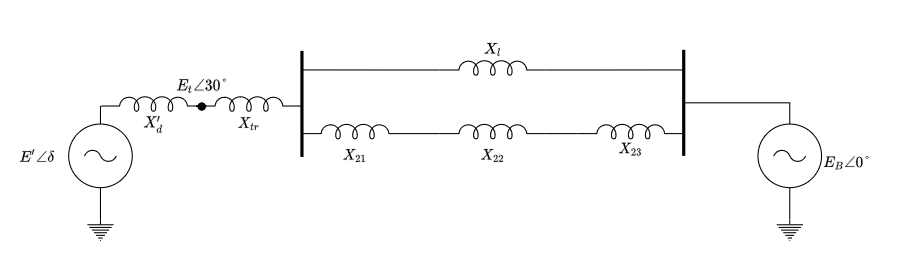
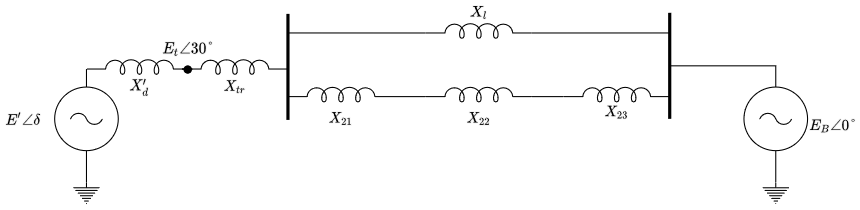
minor update

Changed region(s): [[0.0, 0.0286, 0.9977, 0.9714], [0.1814, 0.2, 0.2419, 0.2571]]

diff --git a/Lectures/transient/content.tex b/Lectures/transient/content.tex
@@ -407,12 +407,13 @@ We introduce the concept of critical \textbf{clearing angle} $\mathcolor{green}{
 
 \section{Practical Example}
 \begin{frame}{Problem statement}
-Let us consider the following system:
-\begin{center}
-\includegraphics[width=0.8\textwidth]{images/InitialSystem.png}
-$X_d' = 0.3, X_{tr} = 0.5, X_{l} = 1, X_{21} = 0.5, X_{22} = \frac{1}{6}, X_{23} = \frac{1}{3}$\\
-$\bar{E}_{t} = 1e^{j \pi/6}, \bar{E}_{B} = 1e^{j0}$.
-\end{center}
+Consider the following system with 
+    $X_d' = 0.3, X_{tr} = 0.5, X_{l} = 1, X_{21} = 0.5, X_{22} = \frac{1}{6}, X_{23} = \frac{1}{3}$ and                 $\bar{E}_{t} = 1e^{j \pi/6}, \bar{E}_{B} = 1e^{j0}$.
+    \begin{center}
+        \includegraphics[width=0.9\textwidth]{images/InitialSystem.png}
+    \end{center}
+    \textbf{Compute the CCT if a 3-phase short circuit occurs between $X_{22}$ and $X_{23}$.}
+
 \end{frame}
 
 \begin{frame}{Equivalent}
